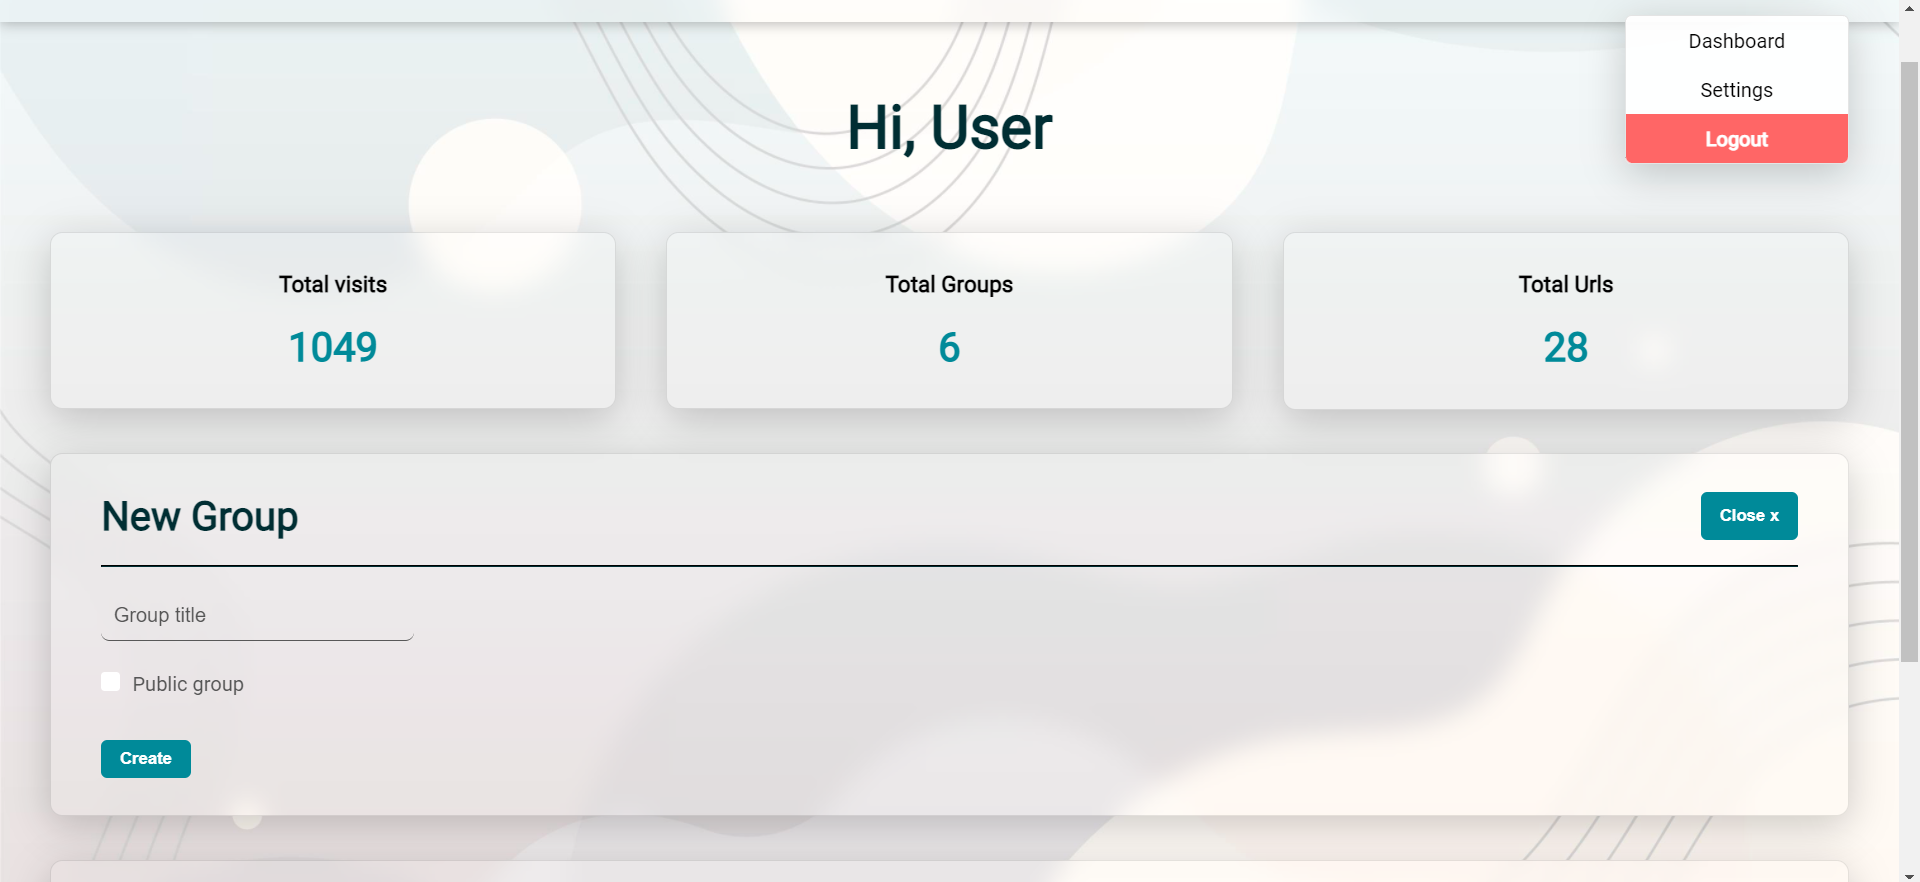
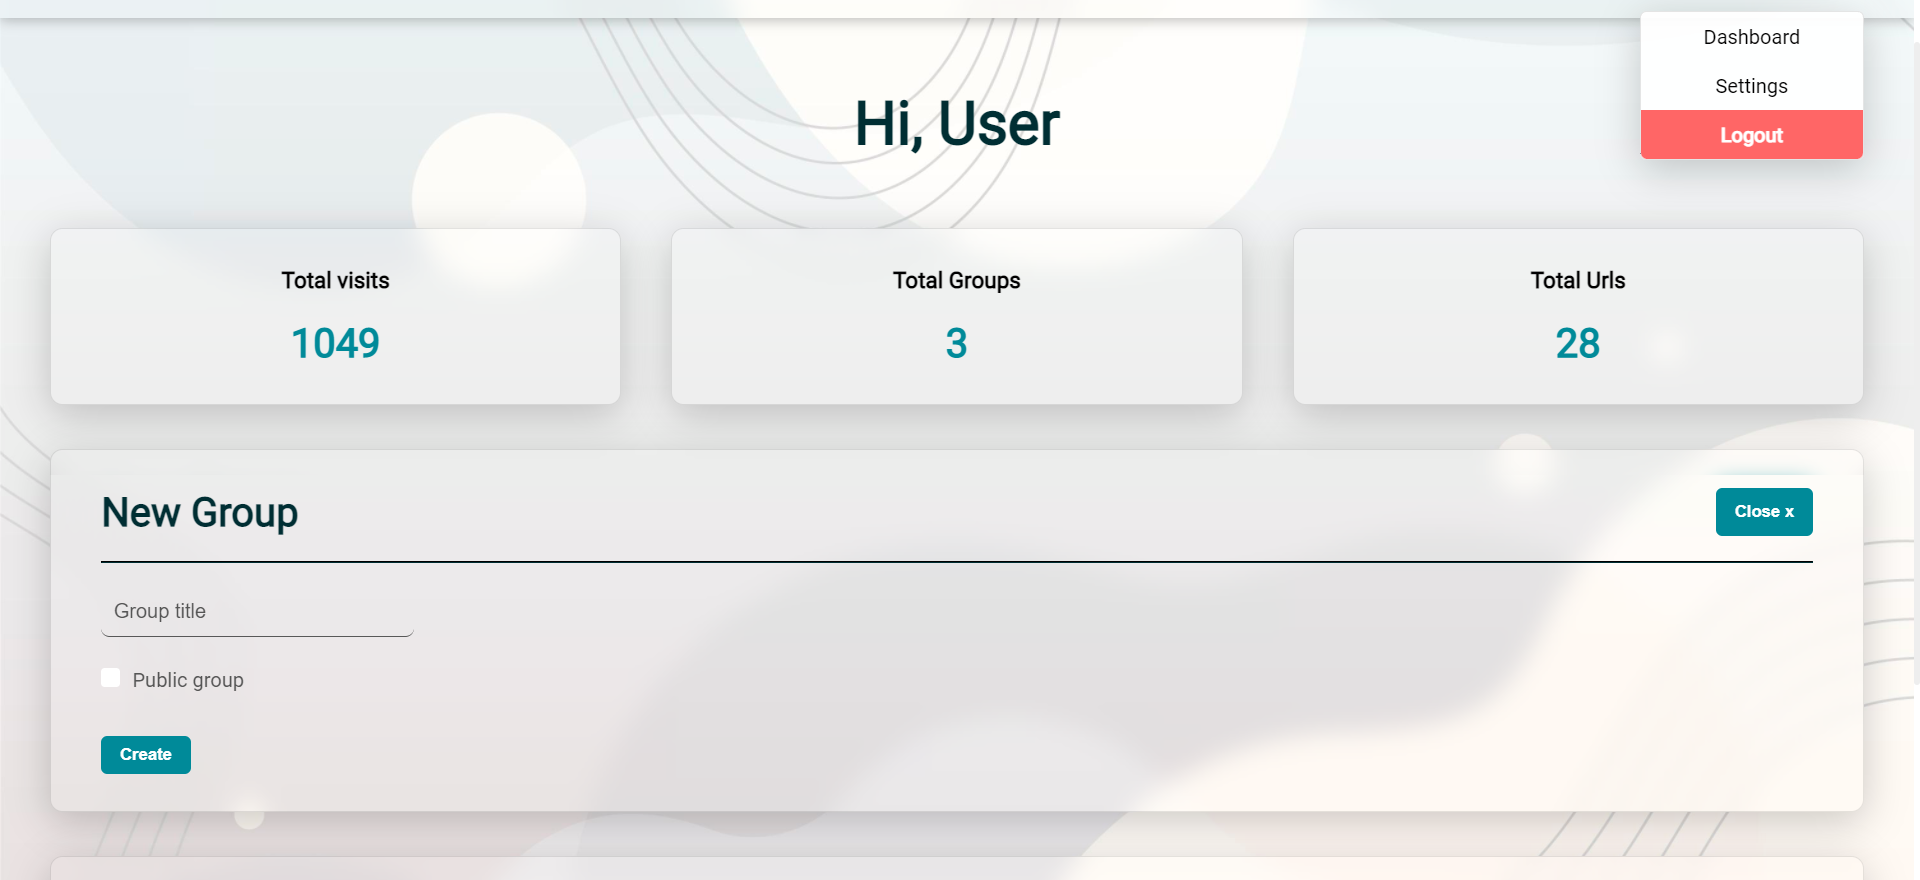
Added custom scroll bar design

diff --git a/styles/globals.css b/styles/globals.css
@@ -33,3 +33,21 @@ input::-webkit-inner-spin-button {
 input[type="number"] {
     -moz-appearance: textfield;
 }
+
+::-webkit-scrollbar {
+    width: 5px;
+    height: 0px;
+}
+
+::-webkit-scrollbar-track {
+    background: none;
+}
+
+::-webkit-scrollbar-thumb {
+    background: #eee;
+    border-radius: 10px;
+}
+
+::-webkit-scrollbar-thumb:hover {
+    background: #d9d9d9;
+}
